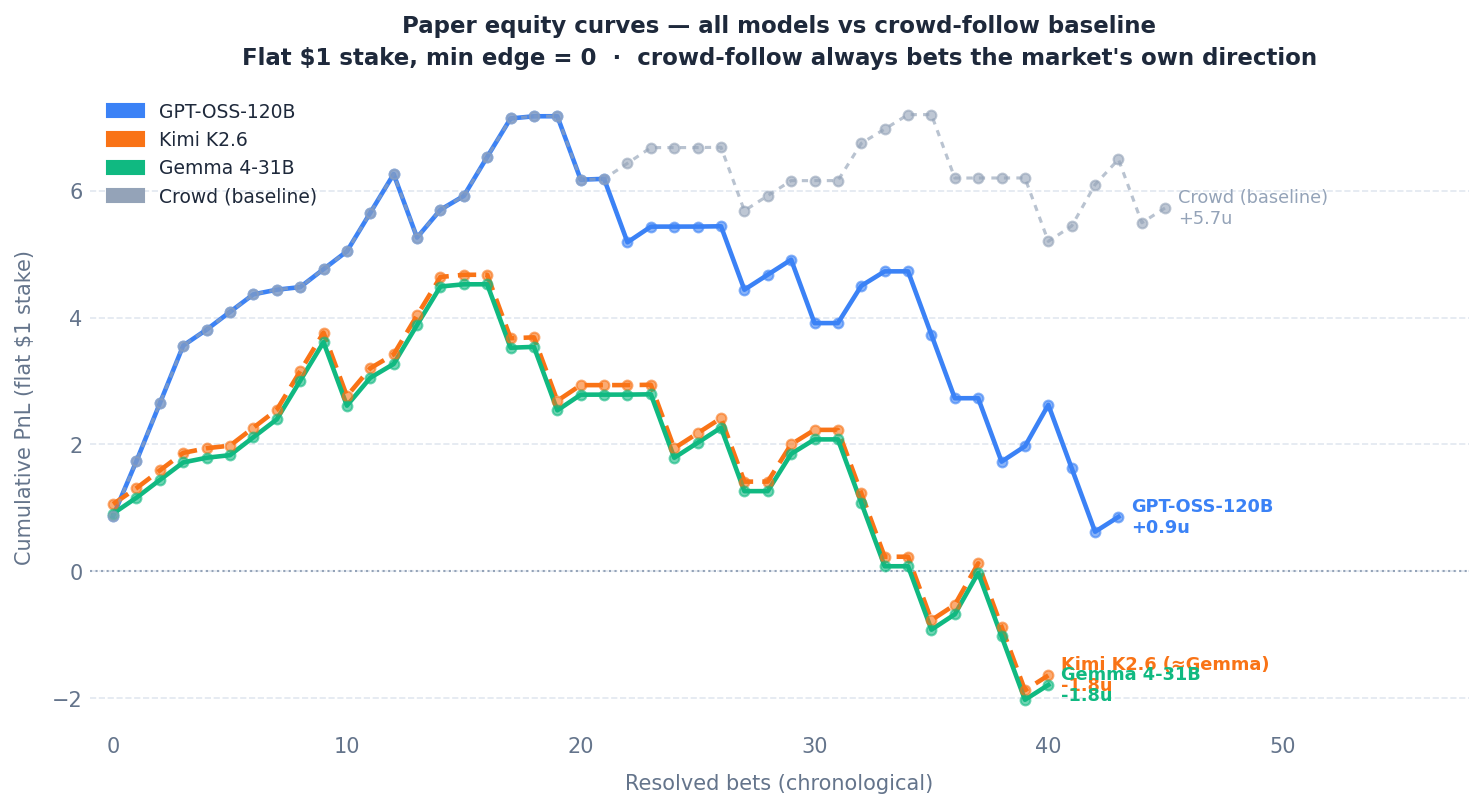
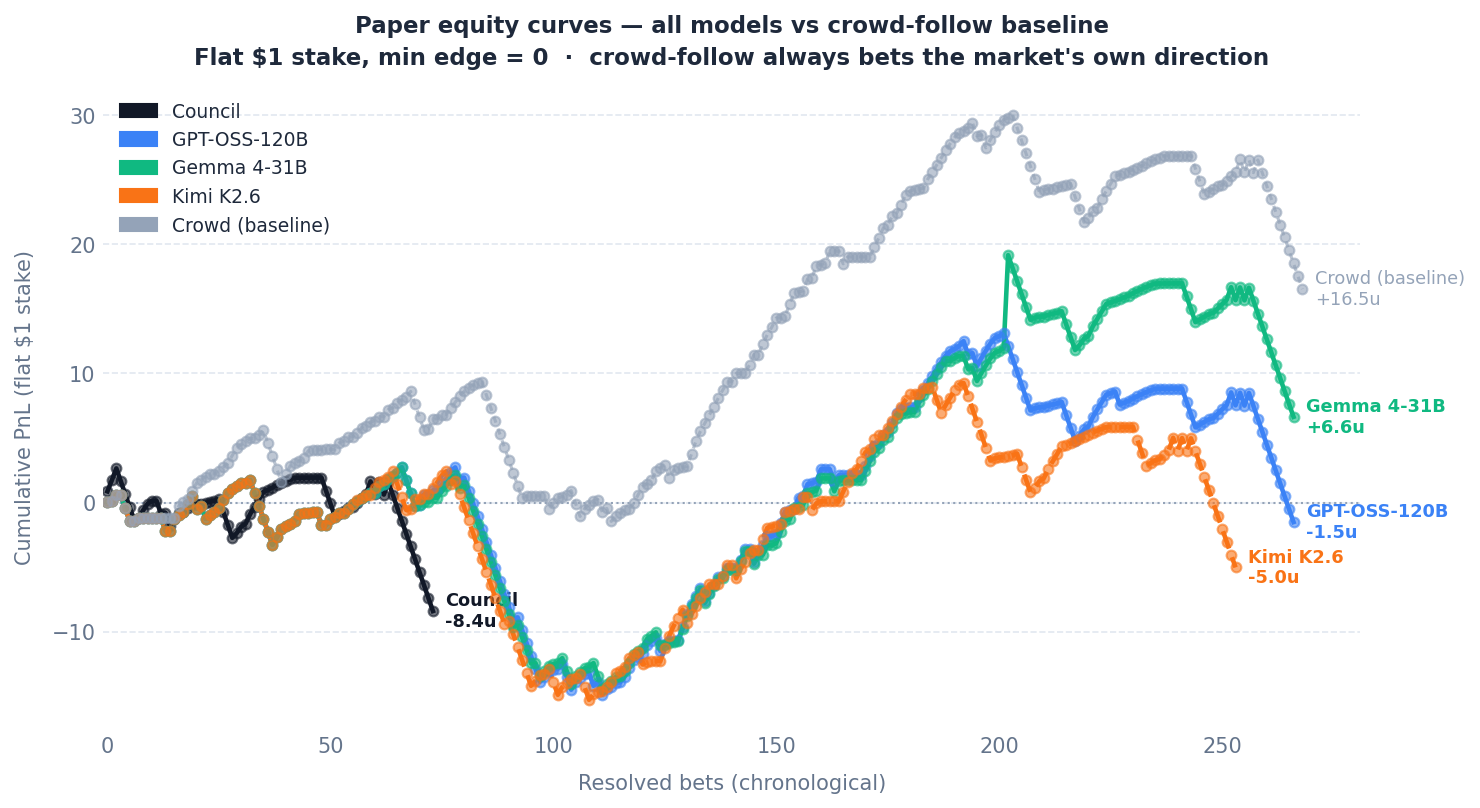
Refresh equity curve plots

diff --git a/static/index.html b/static/index.html
@@ -3464,6 +3464,14 @@ async function _readJson(resp) {
   catch { return { detail: (txt || '').slice(0, 300).trim() || ('HTTP ' + resp.status) }; }
 }
 
+function _liveJsonFetch(path) {
+  const sep = path.includes('?') ? '&' : '?';
+  return fetch(`${path}${sep}_=${Date.now()}`, {
+    cache: 'no-store',
+    headers: { 'Cache-Control': 'no-cache', 'Pragma': 'no-cache' },
+  });
+}
+
 function _parseSseBlock(block) {
   let event = 'message';
   const dataLines = [];
@@ -4480,7 +4488,7 @@ async function loadTrackRecord() {
   const host = document.getElementById('trackBody');
   host.innerHTML = '<div class="tr-inner"><p class="text-sm text-gray-500">Loading track record…</p></div>';
   try {
-    const r = await fetch('/track-record');
+    const r = await _liveJsonFetch('/track-record');
     if (!r.ok) throw new Error('unavailable');
     const d = await _readJson(r);
     host.innerHTML = renderTrackRecord(d);
@@ -4602,7 +4610,7 @@ async function refreshEquityCurve() {
   const el = document.getElementById('eb-equity-svg');
   if (!el) return;
   try {
-    const r = await fetch('/edge-board');
+    const r = await _liveJsonFetch('/edge-board');
     if (!r.ok) return;
     const d = await _readJson(r);
     const pnl = d.paper_pnl;
@@ -4935,7 +4943,7 @@ async function loadEdgeBoard() {
   const host = document.getElementById('edgeBody');
   host.innerHTML = '<div class="tr-inner"><p class="text-sm text-gray-500">Loading edge board…</p></div>';
   try {
-    const r = await fetch('/edge-board');
+    const r = await _liveJsonFetch('/edge-board');
     if (!r.ok) throw new Error('unavailable');
     host.innerHTML = renderEdgeBoard(await _readJson(r));
     const eqDiv = document.getElementById('eb-equity-svg');
@@ -5055,7 +5063,7 @@ function _renderWatchTable() {
 
 async function loadLandingPanels() {
   try {
-    const r = await fetch('/radar?limit=6');
+    const r = await _liveJsonFetch('/radar?limit=6');
     if (!r.ok) return;
     const d = await _readJson(r);
     _renderLandingMarketTable((d.markets || []).slice(0, 3));
@@ -7184,7 +7192,7 @@ async function _runSlashCommand(cmd, args, rawQuestion) {
   if (cmd === '/edge') {
     const typing = addTyping();
     try {
-      const r = await fetch('/edge-board');
+      const r = await _liveJsonFetch('/edge-board');
       if (!r.ok) throw new Error(`HTTP ${r.status}`);
       const d = await r.json();
       const board = d.edge_board || [];
@@ -7220,7 +7228,7 @@ async function _runSlashCommand(cmd, args, rawQuestion) {
   if (cmd === '/track') {
     const typing = addTyping();
     try {
-      const r = await fetch('/track-record');
+      const r = await _liveJsonFetch('/track-record');
       if (!r.ok) throw new Error(`HTTP ${r.status}`);
       const d = await r.json();
       const ov = d.overall || {};

diff --git a/scripts/plot_equity_curves.py b/scripts/plot_equity_curves.py
@@ -5,6 +5,7 @@ crowd-follow has zero edge by definition (model_prob = market_prob), so the stan
 paper_pnl code (which requires edge >= 0.05) filters all its bets out. Here we use
 min_edge=0 for all models so crowd-follow appears as the zero-expectancy baseline.
 """
+# ruff: noqa: E402,I001
 from __future__ import annotations
 
 import sys
@@ -27,12 +28,14 @@ OUT_PATH = ROOT / "analysis" / "equity_curves.png"
 
 # Tailwind-inspired palette
 COLORS = {
+    "council":             "#111827",   # gray-900
     "gpt-oss-120b":        "#3b82f6",   # blue-500
     "kimi-k2.6":           "#f97316",   # orange-500
     "gemma-4-31b-it":      "#10b981",   # emerald-500
     "crowd-follow":        "#94a3b8",   # slate-400  (baseline)
 }
 LABELS = {
+    "council":        "Council",
     "gpt-oss-120b":   "GPT-OSS-120B",
     "kimi-k2.6":      "Kimi K2.6",
     "gemma-4-31b-it": "Gemma 4-31B",
@@ -40,12 +43,13 @@ LABELS = {
 }
 # Linestyle per model — Kimi/Gemma may overlap, so use distinct dashes
 LINESTYLES = {
+    "council":        "-",
     "gpt-oss-120b":   "-",
     "kimi-k2.6":      (0, (4, 2)),   # long dash
     "gemma-4-31b-it": "-",
     "crowd-follow":   (0, (2, 2)),   # dotted
 }
-MODEL_ORDER = ["gpt-oss-120b", "kimi-k2.6", "gemma-4-31b-it", "crowd-follow"]
+MODEL_ORDER = ["council", "gpt-oss-120b", "gemma-4-31b-it", "kimi-k2.6", "crowd-follow"]
 
 
 def _edge(model_p: float, market_p: float) -> float:
@@ -61,9 +65,9 @@ def _bet_fee(platform: str | None, stake: float, p_side: float) -> float:
 
 
 def equity_curve(rows: list[dict], *, min_edge: float = 0.0) -> tuple[list[str], list[float]]:
-    """Cumulative flat-stake PnL over resolved snapshots, ordered by snapshot_ts."""
+    """Cumulative flat-stake PnL over resolved snapshots, ordered by resolution."""
     bets: list[tuple[str, float]] = []
-    for r in sorted(rows, key=lambda x: x.get("snapshot_ts") or ""):
+    for r in sorted(rows, key=lambda x: x.get("resolved_ts") or x.get("snapshot_ts") or ""):
         model_p = float(r["model_probability"])
         market_p = float(r["market_probability"])
         edge = _edge(model_p, market_p)
@@ -80,7 +84,7 @@ def equity_curve(rows: list[dict], *, min_edge: float = 0.0) -> tuple[list[str],
         payout = (1.0 - p_side) / p_side
         fee = _bet_fee(r.get("platform"), 1.0, p_side)
         profit = 1.0 * (payout if win else -1.0) - fee
-        ts = str(r.get("snapshot_ts") or "")[:10]
+        ts = str(r.get("resolved_ts") or r.get("snapshot_ts") or "")[:10]
         bets.append((ts, profit))
     dates = [b[0] for b in bets]
     curve = list(np.cumsum([b[1] for b in bets]))
@@ -92,8 +96,11 @@ def main() -> None:
     rows_raw = store._con.execute("""
         SELECT model, ident, snapshot_ts, model_probability, market_probability,
                outcome, platform, resolved_ts
-        FROM forecast_snapshot WHERE resolved = true
-        ORDER BY snapshot_ts
+        FROM forecast_snapshot
+        WHERE resolved = true
+          AND outcome IS NOT NULL
+          AND key NOT LIKE '%_backfill'
+        ORDER BY resolved_ts
     """).fetchall()
 
     by_model: dict[str, list[dict]] = defaultdict(list)
@@ -108,14 +115,15 @@ def main() -> None:
             "platform": platform,
             "resolved_ts": str(resolved_ts),
         }
-        by_model[model or "gpt-oss-120b"].append(rec)
+        by_model[model or "council"].append(rec)
 
-    # Reconstruct crowd-follow from gpt rows (same 43 markets, model_prob = market_prob)
-    gpt_rows = by_model.get("gpt-oss-120b", [])
-    by_model["crowd-follow"] = [
-        {**r, "model": "crowd-follow", "model_probability": r["market_probability"]}
-        for r in gpt_rows
-    ]
+    llm_groups = {m: rows for m, rows in by_model.items() if m != "crowd-follow"}
+    if llm_groups:
+        _label, reference_rows = max(llm_groups.items(), key=lambda item: (len(item[1]), item[0]))
+        by_model["crowd-follow"] = [
+            {**r, "model": "crowd-follow", "model_probability": r["market_probability"]}
+            for r in reference_rows
+        ]
 
     fig, ax = plt.subplots(figsize=(10, 5.5))
     fig.patch.set_facecolor("white")
@@ -130,10 +138,6 @@ def main() -> None:
     # Draw zero line
     ax.axhline(0, color="#94a3b8", linewidth=1.0, linestyle=":")
 
-    # Kimi and Gemma produce identical equity curves on this sample — nudge Kimi
-    # slightly upward so both lines are visible
-    Y_OFFSET = {"kimi-k2.6": 0.15}
-
     for model_key in MODEL_ORDER:
         rows = by_model.get(model_key, [])
         if not rows:
@@ -141,8 +145,7 @@ def main() -> None:
         dates, curve = equity_curve(rows, min_edge=0.0)
         if not curve:
             continue
-        offset = Y_OFFSET.get(model_key, 0.0)
-        curve_disp = [v + offset for v in curve]
+        curve_disp = curve
         color = COLORS[model_key]
         lw = 1.5 if model_key == "crowd-follow" else 2.2
         ls = LINESTYLES[model_key]
@@ -153,9 +156,8 @@ def main() -> None:
         final_true = curve[-1]
         final_disp = curve_disp[-1]
         sign = "+" if final_true >= 0 else ""
-        note = " (≈Gemma)" if model_key == "kimi-k2.6" else ""
         ax.annotate(
-            f"{LABELS[model_key]}{note}\n{sign}{final_true:.1f}u",
+            f"{LABELS[model_key]}\n{sign}{final_true:.1f}u",
             xy=(xs[-1], final_disp),
             xytext=(6, 0),
             textcoords="offset points",
